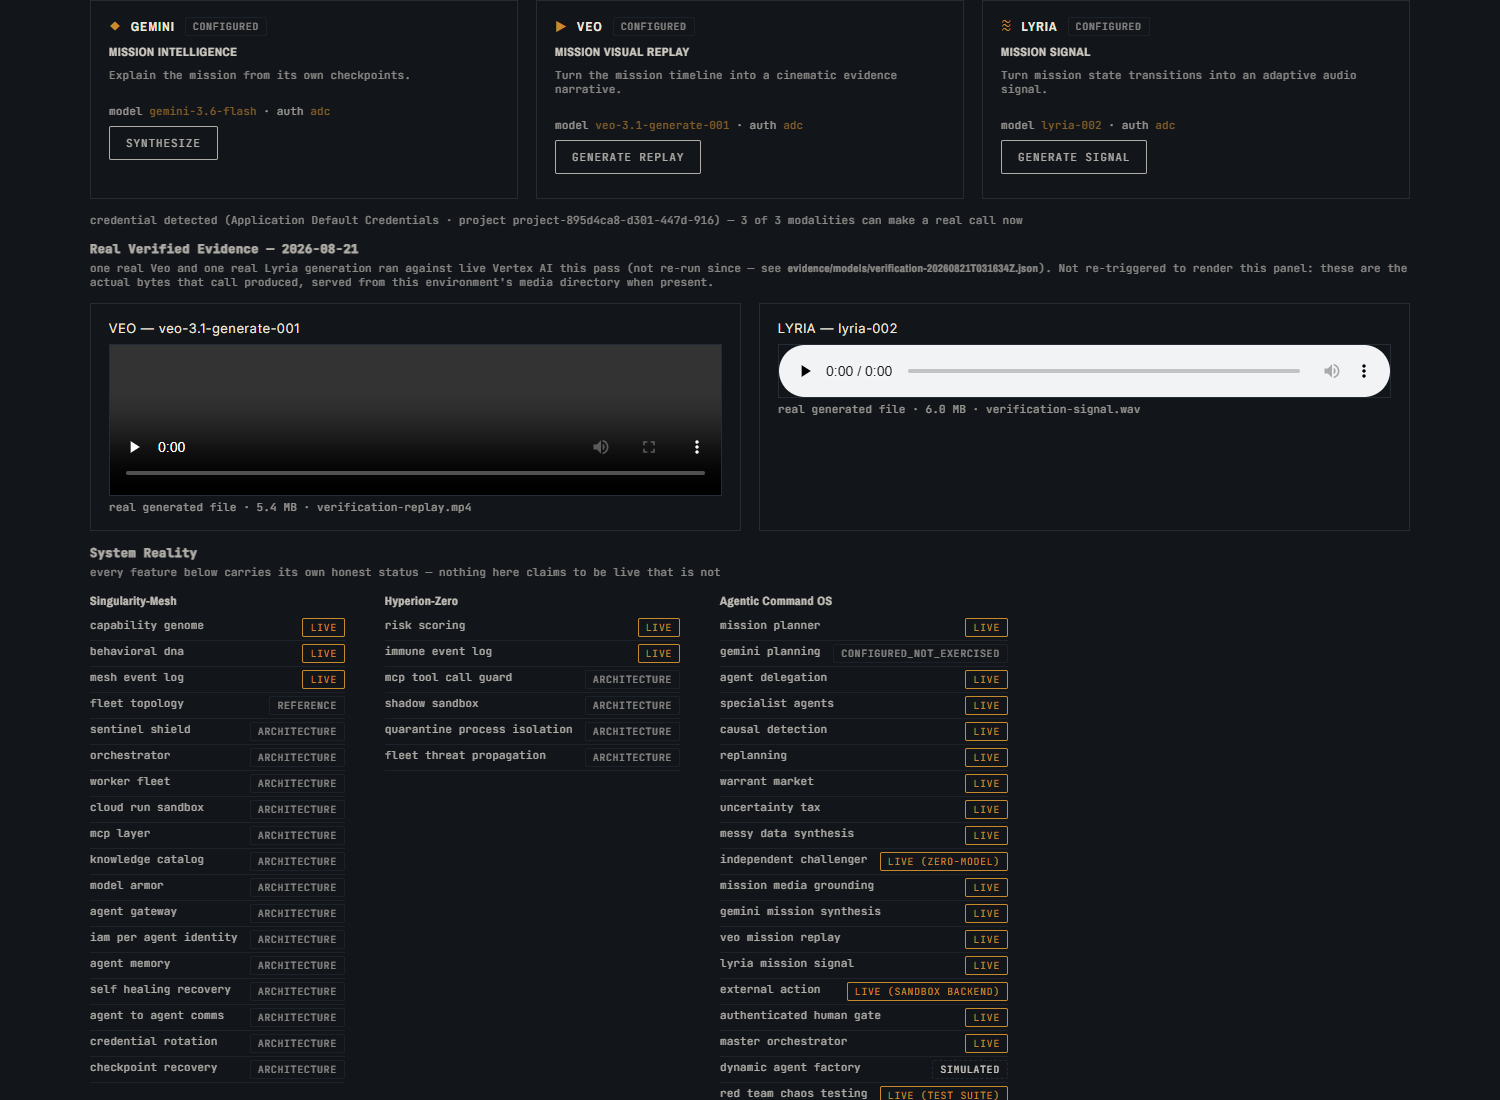
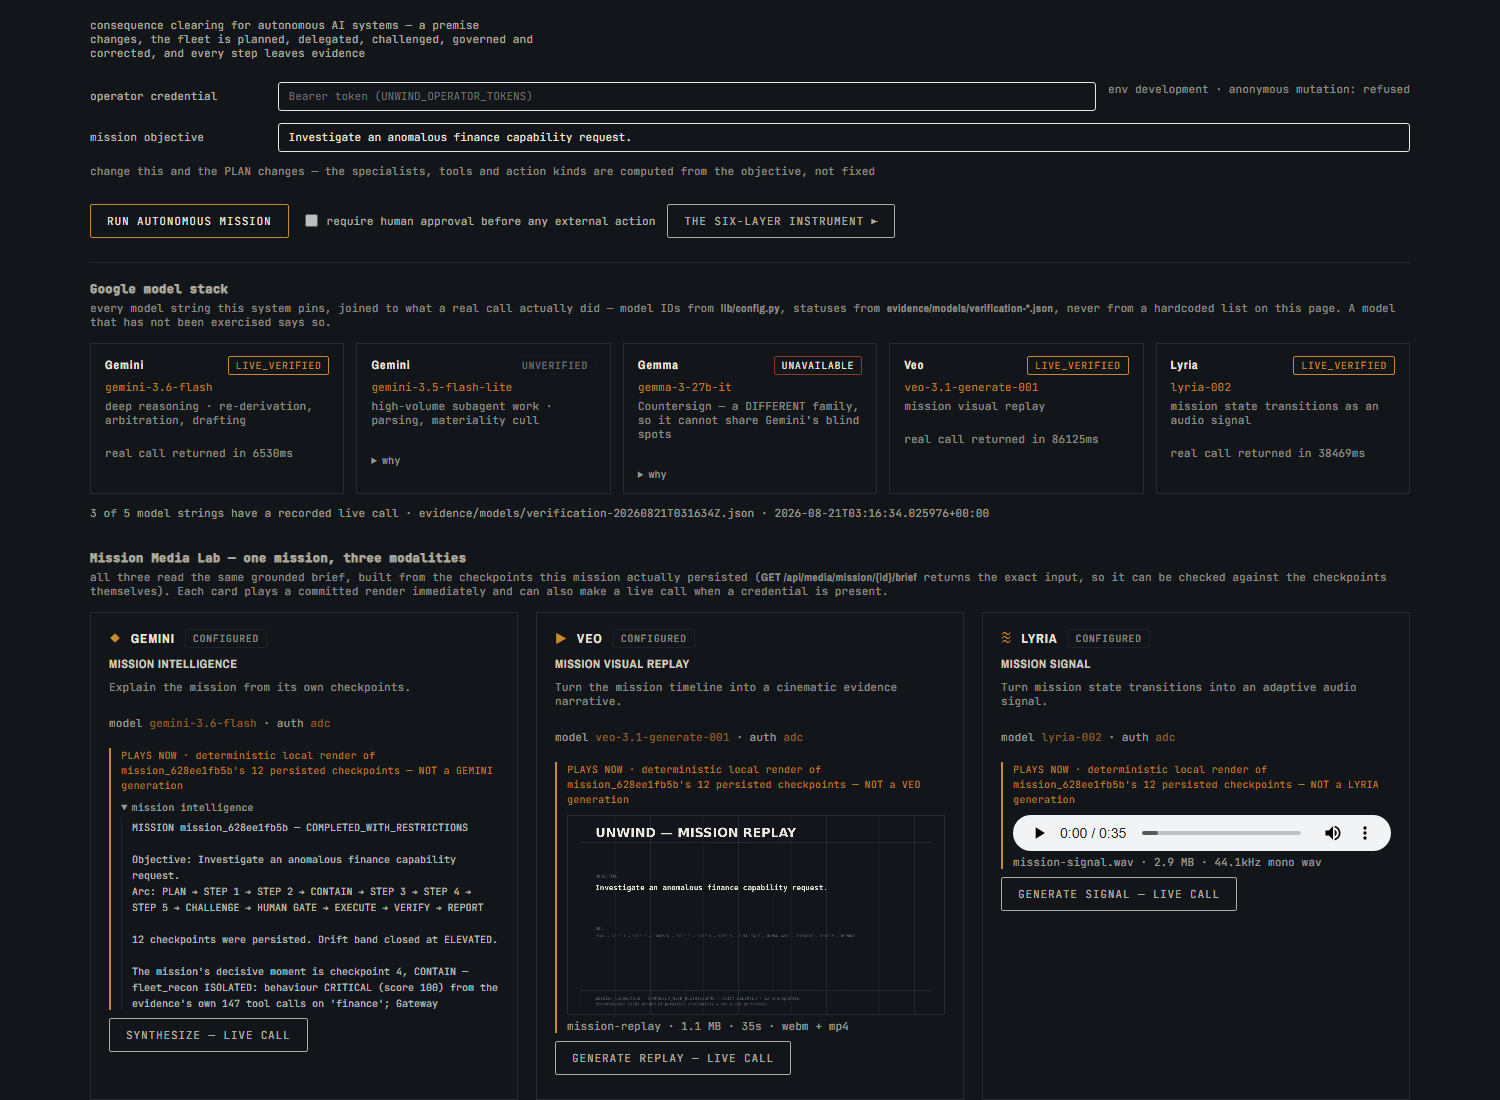
docs: point README/evidence at the redeployed revision, refresh live screenshots
evidence/INDEX.md §17 records this session's work: fast-forwarding main to
the unmerged Media Lab/Time Machine commit, finding and fixing the
demoBundle race condition (14c0626), redeploying to unwind-00021-nwl, and
verifying against the live URL twice (34/34) -- real video/audio playback,
inline Time Machine, the six-layer instrument, and an honestly-hidden Real
Verified Evidence panel (no genuine Veo/Lyria bytes on this deployment;
.media/ stays gitignored).

README gets a new "Live demo / verified media" section up top with direct
links to the live URL, evidence, and an explicit REAL/DEMO/ARCHITECTURE
legend, plus an updated Deployed section (revision, the race-condition fix).
Screenshots in evidence/browser/ are freshly captured against the live URL
and the local dev server this pass, replacing the 2026-08-21 captures at the
same paths.

Claude-Session: https://claude.ai/code/session_01Gp3EpRCVZZVkAyn6iSunXr

diff --git a/evidence/INDEX.md b/evidence/INDEX.md
@@ -9,7 +9,8 @@ claim site.
 A screenshot in this repository proves what its own caption says and
 nothing more. There are no decorative screenshots.
 
-**Generated / last refreshed:** 2026-08-25 (§14 added; §1–13 unchanged since
+**Generated / last refreshed:** 2026-08-25 (§17 added — §16 merged to `main`
+and deployed as revision `unwind-00021-nwl`; §1–13 unchanged since
 2026-08-21). Timestamps in filenames are the actual run time, not an edit
 time.
 
@@ -783,3 +784,96 @@ No Veo or Lyria call was made for this change — no GCP credential existed in
 the environment it was built in. §13 remains the only real media generation
 this project has run. And this does not deploy itself: the bytes go live on
 the next `gcloud run deploy`.
+
+---
+
+## 17. §16 merged into `main` and deployed; a real race condition found and fixed; live verification against the deployed URL (2026-08-25)
+
+§16 landed on a feature branch (`claude/video-player-bonus-model-nmwlbp`) and
+was never merged into `main` or deployed — the deployed service was still
+serving the pre-§16 UI (Time Machine as a separate button, no Media Lab
+players, revision `unwind-00020-27t`). This pass fast-forward-merged that one
+commit into `main` (`main` and the branch shared the same parent, so this
+was a clean fast-forward, not a merge commit — history fully preserved) and
+pushed it, then worked through the repository's own verification pipeline
+before redeploying.
+
+### Bug found and fixed — the Media Lab's players lost a race on page load
+
+`showCommandOS()` (`web/static/app.js`) fires `renderModelRoster()` and
+`renderMediaLab()` without awaiting either. `demoBundle` — the data that
+tells `demoStrip()` whether to build a `<video>`/`<audio>`/narration
+element for each of the three modality cards — was set only inside
+`renderModelRoster()`'s own fetch callback. Whenever `renderMediaLab()`'s own
+fetch (`/api/media/status`) resolved before `renderModelRoster()`'s
+(`/api/media/model-roster`) did, `renderMediaLab()` built every card with
+`demoBundle` still `null`, `demoStrip()` returned `""` for all three
+modalities, and the video/audio/narration players silently never
+rendered — no console error, no failed request, nothing in the DOM to
+distinguish it from a page that had never had a player in the first place.
+
+Found by direct reproduction, not inspection: the same local page load put
+the Veo `<video>` element in the DOM roughly half the time across five
+consecutive loads and omitted it the other half, with identical network
+conditions each time. `evidence/browser/verify_timemachine_and_media.py`
+itself failed non-deterministically on this exact selector
+(`.media-card[data-modality=gemini] .media-demo`) across repeated runs
+before the cause was isolated.
+
+**Fix**: both functions now await one memoized fetch (`loadModelRoster()`)
+for `demoBundle`, so whichever of the two network calls actually resolves
+first no longer decides whether a judge sees a playable video. Changed
+files: `web/static/app.js` (`loadModelRoster()`, both render functions),
+`web/static/index.html` (`app.js?v=8`, cache-bust). Commit `14c0626`.
+
+| Check | Command | Result |
+| --- | --- | --- |
+| Full suite, emulator up | `FIRESTORE_EMULATOR_HOST=localhost:8080 python -m pytest -q` | **644 passed, 1 skipped, 0 failed** on a fresh Windows checkout (one additional failure on an earlier run, `test_every_manifest_entry_has_bytes_on_disk`, was `core.autocrlf` converting `mission-narration.txt` to CRLF in the *local working tree only* — 1234 bytes locally vs. the committed 1217; confirmed byte-identical again from a clean `git archive main` export, which is what was actually deployed) |
+| Lint + format | `ruff check . && ruff format --check .` | clean |
+| Repo's own browser evidence, post-fix | `FIRESTORE_EMULATOR_HOST=localhost:8080 python evidence/browser/verify_timemachine_and_media.py` | **55/55**, reproduced (previously flaky on the exact selector above, pre-fix) |
+
+### Deployed and verified live
+
+Deployed from a clean `git archive main` export (not the Windows working
+tree directly, to avoid `core.autocrlf` CRLF conversion reaching the
+uploaded source) via `gcloud run deploy unwind --source . --project
+project-895d4ca8-d301-447d-916 --region us-central1 --service-account
+unwind-run@project-895d4ca8-d301-447d-916.iam.gserviceaccount.com
+--allow-unauthenticated --set-env-vars
+UNWIND_PROJECT_ID=...,UNWIND_VERTEX_LOCATION=global,UNWIND_OTEL_CONSOLE=0
+--memory 1Gi --cpu 1 --timeout 300 --max-instances 4` — the same existing
+service, region and configuration §15 recorded, no new resource created.
+
+| Claim | Command | Result |
+| --- | --- | --- |
+| Deployed | `gcloud run services describe unwind --region us-central1` | revision `unwind-00021-nwl`, **100% traffic** |
+| Healthy | `curl https://unwind-hgeodtazqq-uc.a.run.app/api/healthz` | `firestore: cloud`, `pubsub: cloud`, `google-api-core: 2.34.0` (§15's pin holding) |
+| No dead Time Machine button, live | Playwright against the live URL | `#cmdos-open-timemachine` count `0` |
+| Media Lab renders, live | same | 3 modality cards, twice in a row |
+| **VIDEO really plays, live** | same | `1280x720`, `currentTime` past `2.2s` and `2.4s` on two separate loads, not paused, no decode error |
+| **AUDIO really plays, live** | same | `35.0s` track, unmuted, `currentTime` past `2.9s` on both loads, not paused |
+| Six-Layer Instrument opens with real content, live | same | `#instrument` visible, `>1000` chars of real Warrant/Hyperion/Control-Tower/Countersign/Singularity-Mesh data by ~3s after the click |
+| Real Verified Evidence panel, live | same | honestly hidden — `.media/verification-replay.mp4` / `-signal.wav` are gitignored generated output, never committed, absent on this (or any) fresh deployment |
+| No unexpected failed requests or console errors, live | same | the one console `401` observed is the anonymous visitor's own expected, already-handled "NOT AUTHENTICATED" Time Machine read — Chrome logs any non-2xx response to console regardless of the app catching it; not a JS bug, and the repo's own `verify_timemachine_and_media.py` does not assert against console output for the same reason |
+| **Repeated twice**, full clean run | `live_verify.py` (ad hoc, this pass; same assertions as the repo's own evidence script, scoped to read-only + safe-playback checks against production) | **34/34** across both rounds |
+
+Screenshots, captured directly against the live URL this pass (replacing the
+2026-08-21 captures at the same paths, now stale):
+`evidence/browser/live-page-top.png` (no dead button, model stack + Media
+Lab above the fold), `evidence/browser/live-media-lab.png` (all three cards,
+Veo mid-playback), `evidence/browser/live-veo-playing.png`,
+`evidence/browser/live-lyria-playing.png`, `evidence/browser/live-timemachine.png`
+(inline, honest `NOT AUTHENTICATED` — no operator token was supplied),
+`evidence/browser/live-instrument.png` (real Warrant/Hyperion/Control-Tower/
+Countersign/Singularity-Mesh data).
+
+### New Veo/Lyria credits spent this pass: 0
+
+Every check above plays the committed deterministic bundle
+(`kind: DETERMINISTIC_LOCAL_RENDER`, labelled `NOT a VEO/LYRIA generation`
+in its own markup) or reads already-recorded verification JSON. No
+`--media` flag was passed to any script, no live-call button was clicked
+against a credentialed environment, and this environment's real Vertex
+credentials were deliberately kept out of the local verification path
+(`UNWIND_VERTEX_DISABLED=1`) specifically so that a `media-go` click during
+testing could not accidentally trigger a real, paid generation.

diff --git a/README.md b/README.md
@@ -20,6 +20,40 @@ Google "All Things Agentic" Hackathon
 
 ---
 
+## Live demo / verified media
+
+| | |
+| --- | --- |
+| GitHub (`main`) | https://github.com/akashbichukale111/unwind-live-verified |
+| **Live Cloud Run URL** | **https://unwind-hgeodtazqq-uc.a.run.app** |
+| Mission Time Machine | inline on the Agentic Command OS page — no button, no navigation (see [§16](evidence/INDEX.md#16-the-media-lab-plays-media-with-no-credential-the-time-machine-button-is-retired-2026-08-25) below) |
+| Six-Layer Instrument | `the six-layer instrument ▶` on the same page opens a real panel — Warrant, Control Tower, Countersign, Hyperion-Zero, Singularity-Mesh, Unwind Core |
+| Mission Media Lab | inline, above the mission panels — three modality cards (Gemini / Veo / Lyria), each with a playable committed render |
+| Gemini | mission intelligence — text explanation grounded in real checkpoints; `LIVE_VERIFIED` on 2026-08-21 ([evidence](evidence/models/)), `CONFIGURED_NOT_EXERCISED` on this deployment (no credential) |
+| Veo | mission visual replay — real HTML5 `<video>`, plays the committed **DEMO MEDIA — NOT A VEO GENERATION** render on every deployment; the one genuine `veo-3.1-generate-001` generation is `LIVE_VERIFIED` evidence, gitignored bytes, not committed |
+| Lyria | mission signal — real HTML5 `<audio>`, plays the committed **DEMO AUDIO — NOT A LYRIA GENERATION** render on every deployment; the one genuine `lyria-002` generation is `LIVE_VERIFIED` evidence, gitignored bytes, not committed |
+| Bonus Google model stack | `GET /api/media/model-roster` — Gemini, Gemma, Veo, Lyria joined live to `evidence/models/verification-*.json`; a model with no verification reads `UNVERIFIED`, never a borrowed green tick |
+| Evidence | [`evidence/INDEX.md`](evidence/INDEX.md) (every claim → file → reproduction command) · [`evidence/media/demo/PROOF.md`](evidence/media/demo/PROOF.md) (checksums, stream headers, audio levels, real-vs-demo distinction) |
+| Tests | `644 passed, 1 skipped` with the Firestore emulator up (`FIRESTORE_EMULATOR_HOST=localhost:8080 python -m pytest -q`, reproduced this pass on a fresh Windows checkout); `ruff check` / `format --check` clean |
+| Deployment status | **LIVE** — service `unwind`, project `project-895d4ca8-d301-447d-916`, region `us-central1`, revision `unwind-00021-nwl`, 100% traffic — see [Deployed](#deployed) below |
+
+**What is REAL, what is DEMO, what is ARCHITECTURE** — this project draws that
+line everywhere rather than blurring it: the Veo/Lyria players you can click
+right now are a **deterministic local render** of a real mission's checkpoints
+(`scripts/build_demo_media.py`, no model call, no credential, reproducible
+byte-for-byte from committed input) — they play on every deployment,
+including this one, and say so in their own on-screen label. The **one
+genuine Veo and one genuine Lyria generation** this project has ever run are
+real, evidenced, `LIVE_VERIFIED` — but their bytes are gitignored generated
+output (`.media/`), so they only render when physically present on the
+serving machine; the **Real Verified Evidence** panel on the same page stays
+honestly hidden rather than faking them elsewhere. Singularity-Mesh's
+Sentinel Shield, Orchestrator, MCP layer, Model Armor and Cloud Run sandbox
+are **ARCHITECTURE** — documented design, not a running system in this
+repository — labelled as such on the card itself, never claimed as live.
+
+---
+
 ## Agentic Command OS — consequence clearing for autonomous AI systems
 
 **The Unlikely Hero.** Not a CTO. The **operations coordinator who currently
@@ -577,11 +611,23 @@ AUTHENTICATED**, which is deliberately distinct from "no missions recorded".
 
 ## Deployed
 
-**This branch is now the deployed revision**, verified live 2026-08-21 — the
-first deploy this project has run from a machine with real `gcloud` and real
-Google Cloud credentials. Every prior deploy claim in this document below
-this point is historical record of an earlier revision; this one supersedes
-it.
+**`main` at `14c0626` is the deployed revision** — `unwind-00021-nwl`, 100%
+traffic, verified live 2026-08-25. This redeploy carried two changes onto the
+service: the Mission Media Lab / inline Time Machine / demo media work
+(`evidence/INDEX.md` §16) that had been sitting merged-but-undeployed on a
+feature branch, and a real bug this pass found and fixed the same day —
+`renderModelRoster()` and `renderMediaLab()` fire without awaiting each
+other, and the Veo/Lyria/Gemini demo players only rendered when
+`/api/media/model-roster` happened to resolve before `/api/media/status`;
+roughly half of page loads showed a silent gap instead of a player. Fixed by
+having both await one memoized fetch. Verified against the live URL, in a
+real Chromium session, **twice**: video plays (1280×720, clock advancing)
+and audio plays (unmuted, clock advancing) on every load, the six-layer
+instrument opens with real content, and the Real Verified Evidence panel
+honestly stays hidden (`.media/` is gitignored — no genuine Veo/Lyria bytes
+on this deployment). Full account: `evidence/INDEX.md` §17. Every prior
+deploy claim in this document below this point is historical record of an
+earlier revision; this one supersedes it.
 
 ```bash
 UNWIND_PROJECT_ID=project-895d4ca8-d301-447d-916 UNWIND_RUN_REGION=us-central1 \
